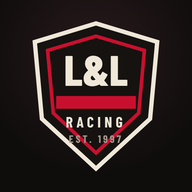
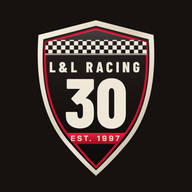
Nouvel écusson L&L Racing (bande à damier, 30 en vedette, bordure métal) : en-tête, icônes, image d'aperçu sans l'ancienne accroche
Claude-Session: https://claude.ai/code/session_01Gqxn2Yi4wzHcsuJeUVhqQA

Changed region(s): [[0.1562, 0.0938, 0.8438, 0.9062]]

diff --git a/test/index.html b/test/index.html
@@ -87,7 +87,7 @@ section{padding-block:56px;border-top:1px solid var(--line)}
 /* Barre du haut */
 .topbar{display:flex;align-items:center;justify-content:space-between;gap:16px;padding-block:18px;border-bottom:1px solid var(--line);flex-wrap:wrap}
 .brand{display:flex;align-items:center;gap:12px;font-family:var(--display);font-weight:700;letter-spacing:.14em;text-transform:uppercase;font-size:.9rem}
-.brand svg{width:34px;height:36px}
+.brand svg{width:42px;height:46px;filter:drop-shadow(0 4px 8px rgba(0,0,0,.5))}
 .brand span span{color:var(--muted)}
 .chip{font-family:var(--display);font-weight:700;letter-spacing:.14em;font-size:.85rem;text-transform:uppercase;border:1px solid var(--line);padding:6px 12px;border-radius:999px;font-variant-numeric:tabular-nums;white-space:nowrap}
 .chip i{color:var(--red);font-style:normal;margin-inline:6px}
@@ -425,13 +425,27 @@ html.orange .light.red{background:#ff7a00;box-shadow:0 0 14px rgba(255,122,0,.9)
 <div class="testband">Version test · rien n'est enregistré ici · <a href="./">site officiel</a></div>
 
 <svg width="0" height="0" style="position:absolute" aria-hidden="true">
-  <symbol id="crest" viewBox="0 0 100 108">
-    <polygon points="50,3 93,16 88,70 50,105 12,70 7,16" fill="#151210" stroke="#efe7d8" stroke-width="3"/>
-    <polygon points="50,12 84,22 80,66 50,94 20,66 16,22" fill="none" stroke="#c8102e" stroke-width="2.5"/>
-    <rect x="22" y="54" width="56" height="9" fill="#c8102e"/>
-    <text x="50" y="47" text-anchor="middle" font-family="Barlow Condensed,Arial Narrow,sans-serif" font-weight="800" font-size="30" fill="#efe7d8">L&amp;L</text>
-    <text x="50" y="76" text-anchor="middle" font-family="Barlow Condensed,Arial Narrow,sans-serif" font-weight="700" font-size="10.5" letter-spacing="2.5" fill="#efe7d8">RACING</text>
-    <text x="50" y="87" text-anchor="middle" font-family="Barlow Condensed,Arial Narrow,sans-serif" font-weight="700" font-size="7.5" letter-spacing="1.5" fill="#a1978a">EST. 1997</text>
+  <symbol id="crest" viewBox="0 0 120 132">
+    <defs>
+      <pattern id="crChk" width="7" height="7" patternUnits="userSpaceOnUse"><rect width="7" height="7" fill="#151210"/><rect width="3.5" height="3.5" fill="#efe7d8"/><rect x="3.5" y="3.5" width="3.5" height="3.5" fill="#efe7d8"/></pattern>
+      <linearGradient id="crShield" x1="0" y1="0" x2="0" y2="1"><stop offset="0" stop-color="#2a2320"/><stop offset=".55" stop-color="#171311"/><stop offset="1" stop-color="#0c0a09"/></linearGradient>
+      <linearGradient id="crMetal" x1="0" y1="0" x2="1" y2="1"><stop offset="0" stop-color="#fbf4e6"/><stop offset=".45" stop-color="#d8cdb9"/><stop offset=".55" stop-color="#efe7d8"/><stop offset="1" stop-color="#b3a692"/></linearGradient>
+      <linearGradient id="crRed" x1="0" y1="0" x2="0" y2="1"><stop offset="0" stop-color="#e6213f"/><stop offset="1" stop-color="#a30c24"/></linearGradient>
+      <linearGradient id="crGloss" x1="0" y1="0" x2="0" y2="1"><stop offset="0" stop-color="#ffffff" stop-opacity=".16"/><stop offset=".5" stop-color="#ffffff" stop-opacity="0"/></linearGradient>
+      <clipPath id="crClip"><path d="M60 11 L101 22 C103 46 101 76 82 99 C73 110 66 118 60 124 C54 118 47 110 38 99 C19 76 17 46 19 22 Z"/></clipPath>
+    </defs>
+    <path d="M60 4 L107 16 C109 44 107 78 86 104 C76 116 67 125 60 131 C53 125 44 116 34 104 C13 78 11 44 13 16 Z" fill="url(#crMetal)"/>
+    <path d="M60 8.5 L103 19.5 C105 45 103 77 83.5 101.5 C74 112.5 66.5 120.5 60 126.5 C53.5 120.5 46 112.5 36.5 101.5 C17 77 15 45 17 19.5 Z" fill="url(#crShield)"/>
+    <path d="M60 11 L101 22 C103 46 101 76 82 99 C73 110 66 118 60 124 C54 118 47 110 38 99 C19 76 17 46 19 22 Z" fill="none" stroke="#c8102e" stroke-width="1.8"/>
+    <g clip-path="url(#crClip)">
+      <rect x="10" y="20" width="100" height="11" fill="url(#crChk)"/>
+      <rect x="10" y="31" width="100" height="1.4" fill="#efe7d8" opacity=".6"/>
+      <rect x="10" y="96" width="100" height="9" fill="url(#crRed)"/>
+      <path d="M10 8 L110 8 L110 60 L10 60 Z" fill="url(#crGloss)"/>
+    </g>
+    <text x="60" y="46.5" text-anchor="middle" font-family="Barlow Condensed,Arial Narrow,sans-serif" font-weight="800" font-size="12" letter-spacing="2.4" fill="#efe7d8">L&amp;L RACING</text>
+    <text x="60" y="92" text-anchor="middle" font-family="Barlow Condensed,Arial Narrow,sans-serif" font-weight="800" font-size="57" fill="#efe7d8">30</text>
+    <text x="60" y="102.6" text-anchor="middle" font-family="Chakra Petch,Barlow Condensed,sans-serif" font-weight="700" font-size="6.2" letter-spacing="1.6" fill="#efe7d8">EST. 1997</text>
   </symbol>
   <pattern id="chkflag" width="6" height="6" patternUnits="userSpaceOnUse"><rect width="6" height="6" fill="#151210"/><rect width="3" height="3" fill="#efe7d8"/><rect x="3" y="3" width="3" height="3" fill="#efe7d8"/></pattern>
   <linearGradient id="gSuit" x1="0" y1="0" x2="1" y2="0"><stop offset="0" stop-color="#ffa44d"/><stop offset=".45" stop-color="#ff7a00"/><stop offset="1" stop-color="#b85400"/></linearGradient>

diff --git a/index.html b/index.html
@@ -86,7 +86,7 @@ section{padding-block:56px;border-top:1px solid var(--line)}
 /* Barre du haut */
 .topbar{display:flex;align-items:center;justify-content:space-between;gap:16px;padding-block:18px;border-bottom:1px solid var(--line);flex-wrap:wrap}
 .brand{display:flex;align-items:center;gap:12px;font-family:var(--display);font-weight:700;letter-spacing:.14em;text-transform:uppercase;font-size:.9rem}
-.brand svg{width:34px;height:36px}
+.brand svg{width:42px;height:46px;filter:drop-shadow(0 4px 8px rgba(0,0,0,.5))}
 .brand span span{color:var(--muted)}
 .chip{font-family:var(--display);font-weight:700;letter-spacing:.14em;font-size:.85rem;text-transform:uppercase;border:1px solid var(--line);padding:6px 12px;border-radius:999px;font-variant-numeric:tabular-nums;white-space:nowrap}
 .chip i{color:var(--red);font-style:normal;margin-inline:6px}
@@ -422,13 +422,27 @@ html.orange .light.red{background:#ff7a00;box-shadow:0 0 14px rgba(255,122,0,.9)
 <body>
 
 <svg width="0" height="0" style="position:absolute" aria-hidden="true">
-  <symbol id="crest" viewBox="0 0 100 108">
-    <polygon points="50,3 93,16 88,70 50,105 12,70 7,16" fill="#151210" stroke="#efe7d8" stroke-width="3"/>
-    <polygon points="50,12 84,22 80,66 50,94 20,66 16,22" fill="none" stroke="#c8102e" stroke-width="2.5"/>
-    <rect x="22" y="54" width="56" height="9" fill="#c8102e"/>
-    <text x="50" y="47" text-anchor="middle" font-family="Barlow Condensed,Arial Narrow,sans-serif" font-weight="800" font-size="30" fill="#efe7d8">L&amp;L</text>
-    <text x="50" y="76" text-anchor="middle" font-family="Barlow Condensed,Arial Narrow,sans-serif" font-weight="700" font-size="10.5" letter-spacing="2.5" fill="#efe7d8">RACING</text>
-    <text x="50" y="87" text-anchor="middle" font-family="Barlow Condensed,Arial Narrow,sans-serif" font-weight="700" font-size="7.5" letter-spacing="1.5" fill="#a1978a">EST. 1997</text>
+  <symbol id="crest" viewBox="0 0 120 132">
+    <defs>
+      <pattern id="crChk" width="7" height="7" patternUnits="userSpaceOnUse"><rect width="7" height="7" fill="#151210"/><rect width="3.5" height="3.5" fill="#efe7d8"/><rect x="3.5" y="3.5" width="3.5" height="3.5" fill="#efe7d8"/></pattern>
+      <linearGradient id="crShield" x1="0" y1="0" x2="0" y2="1"><stop offset="0" stop-color="#2a2320"/><stop offset=".55" stop-color="#171311"/><stop offset="1" stop-color="#0c0a09"/></linearGradient>
+      <linearGradient id="crMetal" x1="0" y1="0" x2="1" y2="1"><stop offset="0" stop-color="#fbf4e6"/><stop offset=".45" stop-color="#d8cdb9"/><stop offset=".55" stop-color="#efe7d8"/><stop offset="1" stop-color="#b3a692"/></linearGradient>
+      <linearGradient id="crRed" x1="0" y1="0" x2="0" y2="1"><stop offset="0" stop-color="#e6213f"/><stop offset="1" stop-color="#a30c24"/></linearGradient>
+      <linearGradient id="crGloss" x1="0" y1="0" x2="0" y2="1"><stop offset="0" stop-color="#ffffff" stop-opacity=".16"/><stop offset=".5" stop-color="#ffffff" stop-opacity="0"/></linearGradient>
+      <clipPath id="crClip"><path d="M60 11 L101 22 C103 46 101 76 82 99 C73 110 66 118 60 124 C54 118 47 110 38 99 C19 76 17 46 19 22 Z"/></clipPath>
+    </defs>
+    <path d="M60 4 L107 16 C109 44 107 78 86 104 C76 116 67 125 60 131 C53 125 44 116 34 104 C13 78 11 44 13 16 Z" fill="url(#crMetal)"/>
+    <path d="M60 8.5 L103 19.5 C105 45 103 77 83.5 101.5 C74 112.5 66.5 120.5 60 126.5 C53.5 120.5 46 112.5 36.5 101.5 C17 77 15 45 17 19.5 Z" fill="url(#crShield)"/>
+    <path d="M60 11 L101 22 C103 46 101 76 82 99 C73 110 66 118 60 124 C54 118 47 110 38 99 C19 76 17 46 19 22 Z" fill="none" stroke="#c8102e" stroke-width="1.8"/>
+    <g clip-path="url(#crClip)">
+      <rect x="10" y="20" width="100" height="11" fill="url(#crChk)"/>
+      <rect x="10" y="31" width="100" height="1.4" fill="#efe7d8" opacity=".6"/>
+      <rect x="10" y="96" width="100" height="9" fill="url(#crRed)"/>
+      <path d="M10 8 L110 8 L110 60 L10 60 Z" fill="url(#crGloss)"/>
+    </g>
+    <text x="60" y="46.5" text-anchor="middle" font-family="Barlow Condensed,Arial Narrow,sans-serif" font-weight="800" font-size="12" letter-spacing="2.4" fill="#efe7d8">L&amp;L RACING</text>
+    <text x="60" y="92" text-anchor="middle" font-family="Barlow Condensed,Arial Narrow,sans-serif" font-weight="800" font-size="57" fill="#efe7d8">30</text>
+    <text x="60" y="102.6" text-anchor="middle" font-family="Chakra Petch,Barlow Condensed,sans-serif" font-weight="700" font-size="6.2" letter-spacing="1.6" fill="#efe7d8">EST. 1997</text>
   </symbol>
   <pattern id="chkflag" width="6" height="6" patternUnits="userSpaceOnUse"><rect width="6" height="6" fill="#151210"/><rect width="3" height="3" fill="#efe7d8"/><rect x="3" y="3" width="3" height="3" fill="#efe7d8"/></pattern>
   <linearGradient id="gSuit" x1="0" y1="0" x2="1" y2="0"><stop offset="0" stop-color="#ffa44d"/><stop offset=".45" stop-color="#ff7a00"/><stop offset="1" stop-color="#b85400"/></linearGradient>
